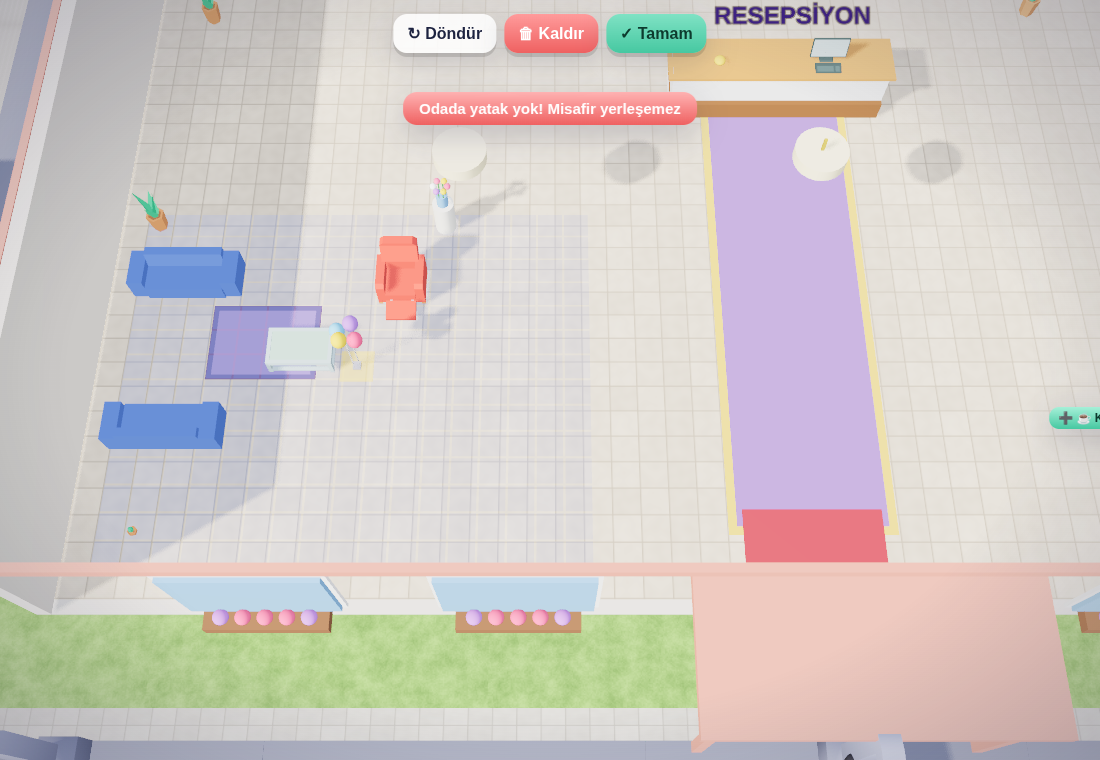
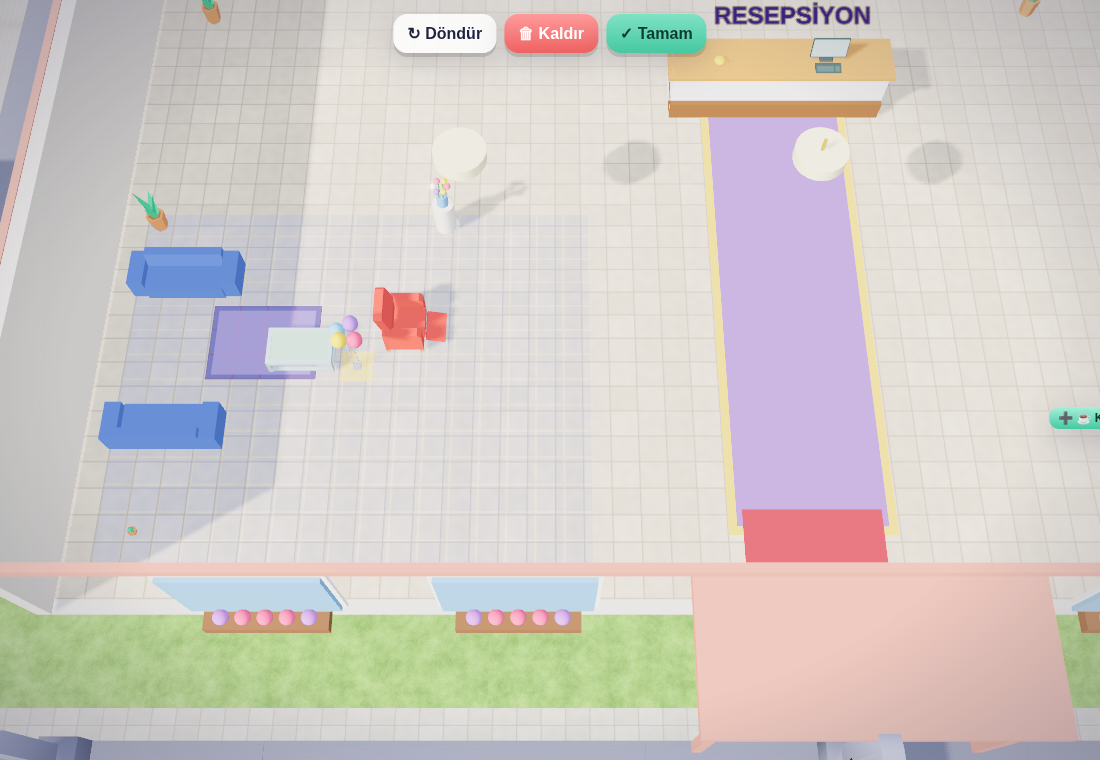
Otel Ustası 2: kapı geçişindeki yürünemez şerit kaldırıldı, çıkışta kapı yardımı, lobi berjeri sehpaya dönük
Claude-Session: https://claude.ai/code/session_01D92rrPcXivKEK2BawEUix1

Changed region(s): [[0.34, 0.1211, 0.6491, 0.1816], [0.34, 0.3026, 0.4327, 0.4842], [0.7418, 0.9987, 0.7727, 1.0]]

diff --git a/web/v2/src/55_decor.js b/web/v2/src/55_decor.js
@@ -43,7 +43,7 @@ const Decor = {
     1: [['bedDouble', 0, 1, 0], ['nightstand', 3, 1, 0], ['tvSet', 4, 6, 180], ['chairCushion', 0, 6, 180], ['rugBlue', 1, 4, 0]],
     2: [['bedDouble', 0, 1, 0], ['nightstand', 3, 1, 0], ['tvSet', 4, 6, 180], ['loungeChairRelax', 5, 2, 0], ['bookcaseOpen', 0, 7, 180], ['rugPink', 1, 4, 0], ['vase', 5, 0, 0], ['plantSmall2', 6, 0, 0]],
   },
-  LobbyPreset: [['loungeDesignSofa', 0, 2, 0], ['loungeDesignSofa', 0, 8, 180], ['tableCoffeeGlass', 5, 5, 0], ['loungeChairRelax', 9, 2, 0], ['rugLav', 3, 4, 0], ['pottedPlant', 0, 0, 0], ['vase', 11, 0, 0]],
+  LobbyPreset: [['loungeDesignSofa', 0, 2, 0], ['loungeDesignSofa', 0, 8, 180], ['tableCoffeeGlass', 5, 5, 0], ['loungeChairRelax', 9, 4, 90], ['rugLav', 3, 4, 0], ['pottedPlant', 0, 0, 0], ['vase', 11, 0, 0]],
 
   zones: new Map(), active: null, sel: null, ghost: null, drag: null, lastZone: null,
   Def(k) { return this.Catalog.find(c => c.k === k); },
@@ -126,7 +126,9 @@ const Decor = {
   FurnishLobby(g) {
     let z = this.zones.get('lobi'); if (!z) z = this.LobbyZone(g); z.parent = g;
     const st = Game.st.lobby;
-    if (st && st.items) z.items = st.items.map(x => Object.assign({}, x));
+    const oldPreset = [['loungeDesignSofa', 0, 2, 0], ['loungeDesignSofa', 0, 8, 0], ['loungeDesignSofa', 0, 8, 180], ['tableCoffeeGlass', 5, 5, 0], ['loungeChairRelax', 9, 2, 0], ['rugLav', 3, 4, 0], ['pottedPlant', 0, 0, 0], ['vase', 11, 0, 0]];
+    const untouched = st && st.items && st.items.every(x => oldPreset.some(([k, c, r, rot]) => k === x.k && c === x.c && r === x.r && rot === (x.rot || 0)));
+    if (st && st.items && !untouched) z.items = st.items.map(x => Object.assign({}, x));
     else z.items = this.LobbyPreset.map(([k, c, r, rot]) => ({ k, c, r, rot })).filter(it => this.Fits(z, it, it));
     this.BuildZone(z);
   },

diff --git a/web/v2/src/35_player.js b/web/v2/src/35_player.js
@@ -98,7 +98,9 @@ class Player extends Behaviour {
     if (moved || f < 1 || f > Hotel.floors) return;
     // kapı yardımı: odaya doğru itiliyorsa ve kapıya yakınsa kapı hizasına kay
     const side = Math.sign(step.z); if (!side || Math.abs(step.z) < Math.abs(step.x) * 0.5) return;
-    const r = Hotel.RoomAt(V(p.x, p.y, side * 2.5), f); if (!r || r.level < 0) return;
+    // odaya girerken: ilerideki oda; odadan çıkarken: içinde olduğu oda
+    const r = Hotel.RoomAt(p, f) || Hotel.RoomAt(V(p.x, p.y, side * 2.5), f); if (!r || r.level < 0) return; // önce içinde olunan oda (çıkış), yoksa ilerideki (giriş)
+    if (Math.abs(p.z) > 3.2) return; // kapıdan uzak
     const dx = (r.x + 0.15) - p.x; if (Math.abs(dx) > 1.6) return;
     p.x += Mathf.Clamp(dx, -Math.abs(step.z) * 1.5, Math.abs(step.z) * 1.5);
     const nz2 = V(p.x, p.y, p.z + step.z); if (Hotel.Walkable(nz2, f)) p.z += step.z;

diff --git a/web/v2/src/99_main.js b/web/v2/src/99_main.js
@@ -67,7 +67,7 @@ function tickLogic() {
 let _last = 0;
 function frame(now) {
   requestAnimationFrame(frame);
-  const raw = Math.min(0.1, Math.max(0, (now - (_last || now)) / 1000));
+  const raw = window.__fixedDt || Math.min(0.1, Math.max(0, (now - (_last || now)) / 1000)); // __fixedDt: testte sabit kare süresi
   _last = now;
   Time.timeScale = (UI.Blocking || window.__pause) ? 0 : 1;
   Time.unscaledDeltaTime = raw; Time.deltaTime = raw * Time.timeScale; Time.time += Time.deltaTime; Time.unscaledTime += raw; Time.frameCount++;

diff --git a/web/v2/src/25_hotel.js b/web/v2/src/25_hotel.js
@@ -211,7 +211,7 @@ const Hotel = {
       return true;
     }
     if (f > this.floors) return Math.abs(p.x) < Wd && Math.abs(p.z) < Dd; // çatı
-    if (Math.abs(p.x) <= Wd && Math.abs(p.z) <= 1.45) return true; // koridor
+    if (Math.abs(p.x) <= Wd && Math.abs(p.z) < 1.6) return true; // koridor (oda bölgesi 1.6'da başlar; arada boşluk kalmasın)
     const r = this.RoomAt(p, f);
     if (!r) return false;
     if (r.level < 0) return false;
